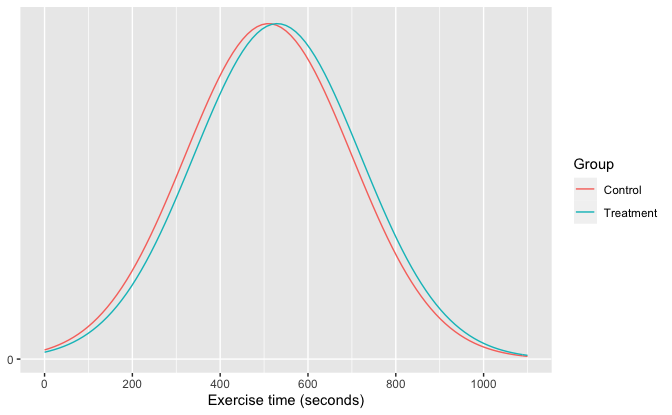
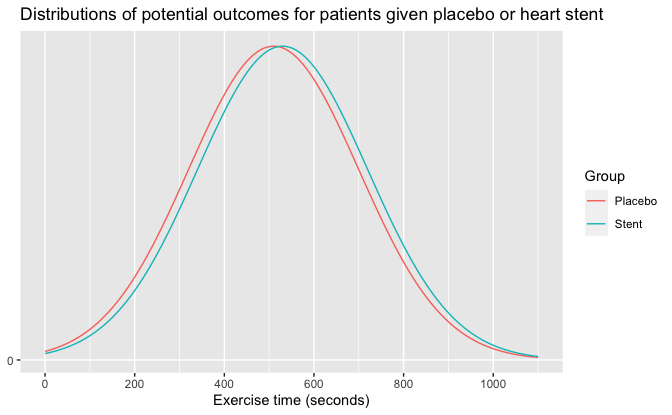
Initial commit

diff --git a/Stents/stents_tv.md b/Stents/stents_tv.md
@@ -1,10 +1,12 @@
 Regression and Other Stories: Stents
 ================
 Andrew Gelman, Jennifer Hill, Aki Vehtari
-2020-12-18
+2021-02-17
 
--   [Data](#data)
--   [Plot](#plot)
+-   [3 Some basic methods in mathematics and
+    probability](#3-some-basic-methods-in-mathematics-and-probability)
+    -   [3.5 Probability distributions](#35-probability-distributions)
+        -   [Comparing distributions](#comparing-distributions)
 
 Tidyverse version by Bill Behrman.
 
@@ -27,20 +29,26 @@ file_common <- here::here("_common.R")
 source(file_common)
 ```
 
-## Data
+# 3 Some basic methods in mathematics and probability
+
+## 3.5 Probability distributions
+
+### Comparing distributions
+
+Data.
 
 ``` r
 # Mean times for each group
-time_control <- 510
-time_treatment <- 530
+time_placebo <- 510
+time_stent <- 530
 
 # Standard deviations for each group
-sd_control <- 190
-sd_treatment <- 190
+sd_placebo <- 190
+sd_stent <- 190
 ```
 
 ``` r
-pnorm(time_treatment, mean = time_control, sd = sd_control)
+pnorm(time_stent, mean = time_placebo, sd = sd_placebo)
 ```
 
     #> [1] 0.542
@@ -48,31 +56,26 @@ pnorm(time_treatment, mean = time_control, sd = sd_control)
 The mean time for the treatment group would have been in the 54th
 percentile for the control group.
 
-## Plot
+Distributions of potential outcomes for patients given placebo or heart
+stent.
 
 ``` r
 x <- 
   seq(
     max(
       0,
-      min(time_control - 3 * sd_control, time_treatment - 3 * sd_treatment)
+      min(time_placebo - 3 * sd_placebo, time_stent - 3 * sd_stent)
     ),
-    max(time_control + 3 * sd_control, time_treatment + 3 * sd_treatment),
-    length.out = 101
+    max(time_placebo + 3 * sd_placebo, time_stent + 3 * sd_stent),
+    length.out = 201
   )
 v <- 
-  tibble(
-    group = "Control",
-    x = x,
-    y = dnorm(x, mean = time_control, sd = sd_control)
+  tribble(
+    ~group,    ~data,
+    "Placebo", tibble(x, y = dnorm(x, mean = time_placebo, sd = sd_placebo)),
+    "Stent",   tibble(x, y = dnorm(x, mean = time_stent, sd = sd_stent))
   ) %>% 
-  bind_rows(
-    tibble(
-      group = "Treatment",
-      x = x,
-      y = dnorm(x, mean = time_treatment, sd = sd_treatment)
-    )
-  )
+  unnest(data)
 
 v %>% 
   ggplot(aes(x, y, color = group)) +
@@ -80,6 +83,8 @@ v %>%
   scale_x_continuous(breaks = scales::breaks_width(200)) +
   scale_y_continuous(breaks = 0) +
   labs(
+    title =
+      "Distributions of potential outcomes for patients given placebo or heart stent",
     x = "Exercise time (seconds)",
     y = NULL,
     color = "Group"
